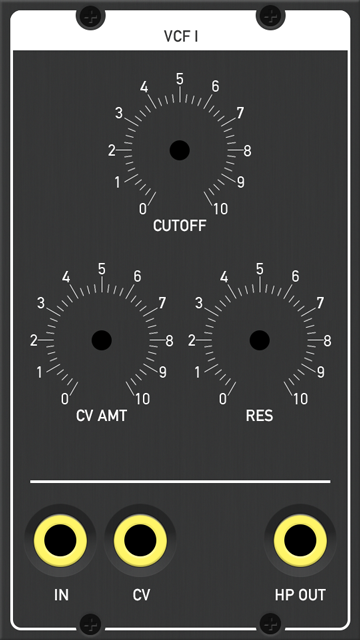
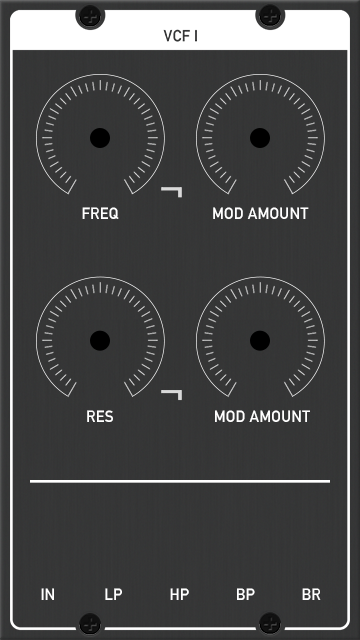
Update VCF Image assets and layout. Fix Frequency modulation jumping from 0 to 1

diff --git a/ColaLib/ColaLib/CCOL/CCOLComponentVCF.cpp b/ColaLib/ColaLib/CCOL/CCOLComponentVCF.cpp
@@ -81,7 +81,7 @@ void CCOLComponentVCF::renderOutputs(unsigned int numFrames) {
         float cutoff = paramCutoffFreq->getOutputAtDelta(delta);
         
         cutoff = cutoff + (cvFreqBuffer[i] * paramCvFreqAmount->getOutputAtDelta(delta));
-        cutoff = fmin(fmax(cutoff, 0), 1);
+        cutoff = fmin(fmax(cutoff, 0.0f), 1.0f);
         
         
         q = 1.0f - cutoff;
@@ -90,7 +90,7 @@ void CCOLComponentVCF::renderOutputs(unsigned int numFrames) {
         
         float res = paramRes->getOutputAtDelta(delta);
         res = res + (cvResBuffer[i] * paramCvResAmount->getOutputAtDelta(delta));
-        res = fminf(fmaxf(res, 0), 1.0);
+        res = fminf(fmaxf(res, 0.0f), 1.0f);
         
         q = res * (1.0f + 0.5f * q * (1.0f - q + 5.6f * q * q));
         
